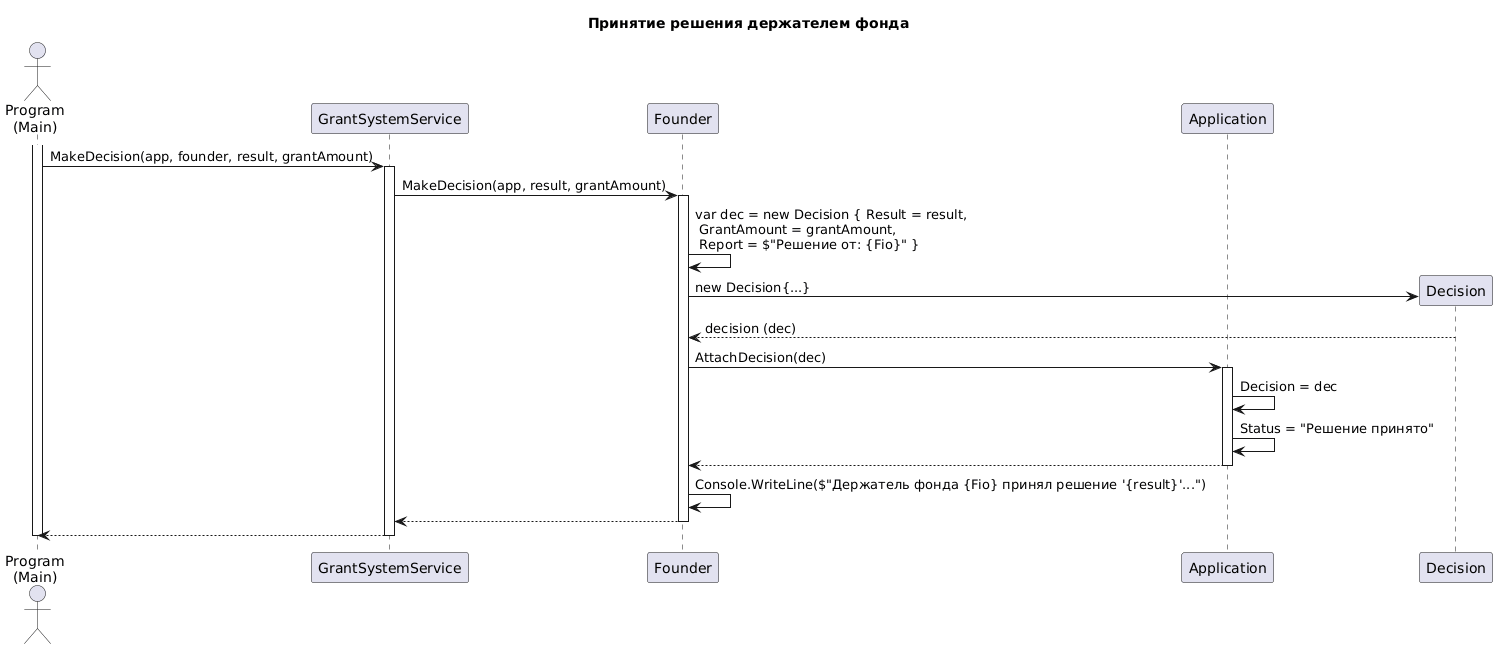
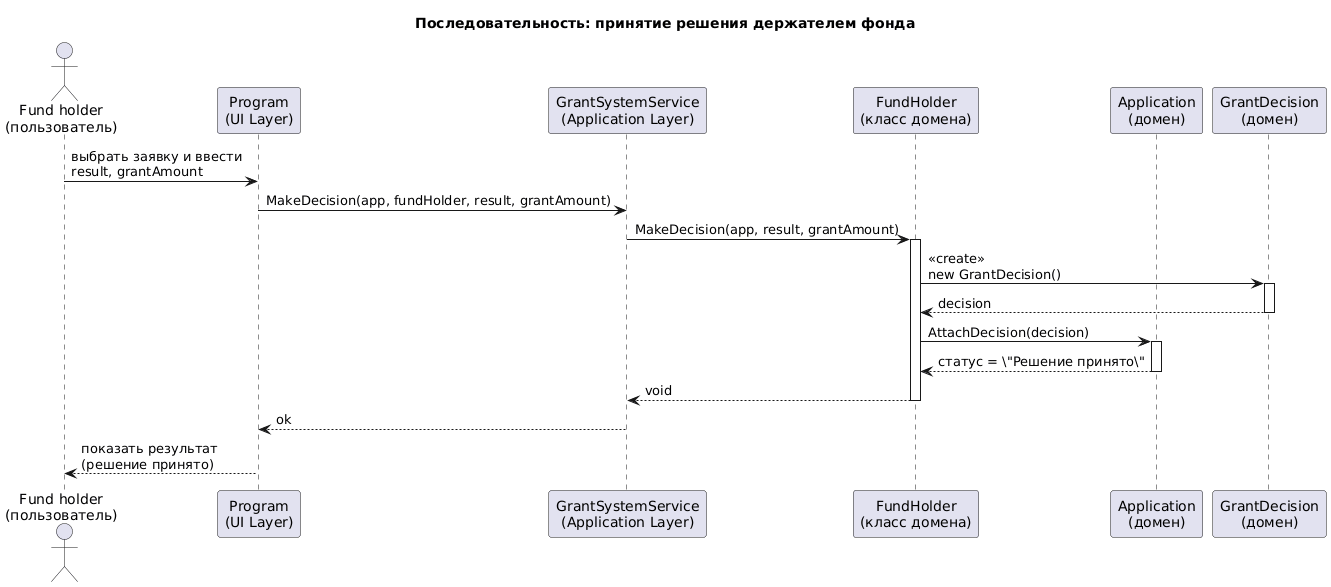
Итогавая диграмма последовательности для держателя фонда

diff --git a/Прецеденты/Fund_Holder/Description.md b/Прецеденты/Fund_Holder/Description.md
@@ -4,58 +4,68 @@
 Система управления грантами GrantSystem.
 
 ## Уровень
-Задача, определенная пользователем.
+Задача, определённая пользователем.
 
-## Основной исполнитель
-Держатель фонда.
+## Основной исполнитель (актёр)
+Держатель фонда (пользователь системы).
 
 ## Заинтересованные лица и их требования
-- Держатель фонда — хочет зафиксировать итоговое решение по заявке с указанием результата и суммы гранта.
-- Соискатель — хочет получить финальный статус по своей заявке.
-- Эксперты — ожидают, что их оценки будут учтены при принятии решения (в текущем коде это не проверяется).
-- Система — должна корректно прикрепить решение к заявке, изменить статус и зафиксировать факт операции.
+- **Держатель фонда (актёр)** — хочет зафиксировать итоговое решение по заявке с указанием результата и суммы гранта.
+- **Класс домена `FundHolder`** — должен инкапсулировать бизнес-логику формирования решения и взаимодействия с заявкой.
+- **Соискатель** — хочет получить финальный статус по своей заявке.
+- **Эксперты** — ожидают, что их оценки будут учтены при принятии решения (в текущем коде это явно не проверяется).
+- **Система** — должна корректно прикрепить решение к заявке, изменить статус и зафиксировать факт операции.
 
 ## Предусловия
-- Держатель фонда идентифицирован и аутентифицирован.
+- Держатель фонда (пользователь) идентифицирован и аутентифицирован в системе.
 - В системе существует заявка (`Application`), доступная для принятия решения.
-- Доступен сервис `GrantSystemService` для вызова операции `MakeDecision`.
-- Оценки экспертов могут существовать, но в текущей реализации не требуются для вызова операции.
+- Доступен прикладной сервис `GrantSystemService` с операцией `MakeDecision`.
+- Доступен доменный объект `FundHolder`, соответствующий текущему пользователю.
+- Оценки экспертов (`Evaluation`) могут существовать, но в текущей реализации не требуются для вызова операции.
 
-## Результаты (Постусловия)
-- К заявке прикреплено решение (`Decision`) с полями `Result`, `GrantAmount`, `Report`.
-- Статус заявки изменен на «Решение принято».
-- Выполнено логирование факта принятия решения в консоль.
+## Результаты (постусловия)
+- К заявке прикреплено решение (`GrantDecision`) с полями `Result`, `GrantAmount`, `Report`.
+- Статус заявки изменён на «Решение принято».
+- Выполнено логирование факта принятия решения (через `Console.WriteLine`).
+- В памяти доменной модели заявка (`Application`) и её решение (`GrantDecision`) находятся в согласованном состоянии.
 
 ## Основной успешный сценарий
-1. Держатель фонда определяет результат решения (строка) и сумму гранта (decimal).
-2. Система вызывает операцию `GrantSystemService.MakeDecision(app, founder, result, grantAmount)`.
-3. Сервис делегирует выполнение `Founder.MakeDecision(app, result, grantAmount)`.
-4. Держатель фонда создает объект `Decision` с `Result`, `GrantAmount`, `Report = "Решение от: {Fio}"`.
-5. Держатель фонда прикрепляет решение к заявке вызовом `Application.AttachDecision(dec)`.
-6. Заявка сохраняет ссылку на `Decision` и изменяет статус на «Решение принято».
-7. Выполняется логирование события в консоль (`Console.WriteLine`).
-8. Сервис возвращает управление вызывающей стороне.
+1. Держатель фонда в пользовательском интерфейсе выбирает конкретную заявку из списка доступных и вводит:
+   - текст результата (`result`),
+   - сумму гранта (`grantAmount`).
+2. UI-слой (`Program`) формирует обращение к прикладному сервису:
+   `GrantSystemService.MakeDecision(app, fundHolder, result, grantAmount)`.
+3. `GrantSystemService` делегирует выполнение операции доменному объекту:
+   `FundHolder.MakeDecision(app, result, grantAmount)`.
+4. Метод `FundHolder.MakeDecision(...)` создаёт объект `GrantDecision` с полями:
+   - `Result = result`,
+   - `GrantAmount = grantAmount`,
+   - `Report = $"Решение от: {Fio}"`.
+5. `FundHolder` прикрепляет решение к заявке вызовом:
+   `Application.AttachDecision(decision)`.
+6. Метод `Application.AttachDecision(decision)`:
+   - сохраняет ссылку на объект `GrantDecision` в поле `Decision`,
+   - изменяет статус заявки на «Решение принято».
+7. В ходе выполнения операции производится логирование в консоль о том, что держатель фонда принял решение по указанной заявке.
+8. `GrantSystemService` возвращает управление вызывающей стороне (UI), интерфейс отображает обновлённый статус заявки и информацию о принятом решении.
 
 ## Специальные требования (по текущей реализации)
-- Операция атомарно прикрепляет решение и меняет статус заявки на «Решение принято».
-- Выполняется консольное логирование факта принятия решения.
-- Строка отчета (`Report`) формируется автоматически на основе `Founder.Fio`.
-- Отсутствует валидация `result` и `grantAmount`; значения принимаются как есть.
+- Операция прикрепления решения и изменения статуса заявки выполняется как единое действие в рамках одного вызова (`AttachDecision`).
+- Логирование осуществляется через стандартный вывод (`Console.WriteLine`).
+- Строка отчёта (`Report`) формируется автоматически на основе доменного свойства `FundHolder.Fio`.
+- Валидация значений `result` и `grantAmount` не выполняется — переданные значения принимаются без проверки.
+- Статус заявки до вызова операции явно не проверяется (можно вызвать `MakeDecision` в любом статусе).
 
 ## Список технологий и типов данных
-- Язык: C#/.NET; логирование: `Console.WriteLine`.
-- Сервис: `GrantSystemService.MakeDecision(Application app, Founder founder, string result, decimal grantAmount)`.
-- Домен: `Founder.MakeDecision(...)` создает `Decision` и вызывает `Application.AttachDecision(dec)`.
-- Модель: `Decision { decimal GrantAmount; string Result; string Report; }`.
-- Статусы заявки: «Черновик» → «Подана» → «На проверке» → «Решение принято».
+- Язык реализации: C# / .NET.
+- Прикладной слой:
+  - `GrantSystemService.MakeDecision(Application app, FundHolder holder, string result, decimal grantAmount)`.
+- Доменный слой:
+  - `class FundHolder { Guid Id; string Fio; void MakeDecision(Application app, string result, decimal grantAmount); }`
+  - `class GrantDecision { Guid Id; string Title; string Result; decimal GrantAmount; string Report; }`
+  - `class Application { ...; void AttachDecision(GrantDecision dec); }`
+- Статусы заявки (по текущей модели):  
+  «Черновик» → «Подана» → «На проверке» → «Решение принято».
 
 ## Частота использования
-Каждый раз при финализации рассмотрения конкретной заявки.
-
-## Открытые вопросы
-- Нужна ли валидация суммы гранта (сравнение с `RequestedAmount` и/или `Grant.MaxAmount`)?
-- Следует ли ограничить допустимые значения `Result` (например, «Одобрено/Отклонено») перечислением?
-- Разрешено ли повторное принятие решений и перезапись уже существующего `Decision`? Нужна ли история?
-- Нужно ли проверять текущий статус заявки (например, запрещать решение, если не «На проверке»)?
-- Следует ли уведомлять соискателя о принятом решении и каким образом?
-- Должно ли логирование быть устойчивым (аудит в БД/журнале) вместо консоли?
+Выполняется один раз для каждой заявки в момент финализации рассмотрения (или повторно, если система разрешит переопределять решение).
